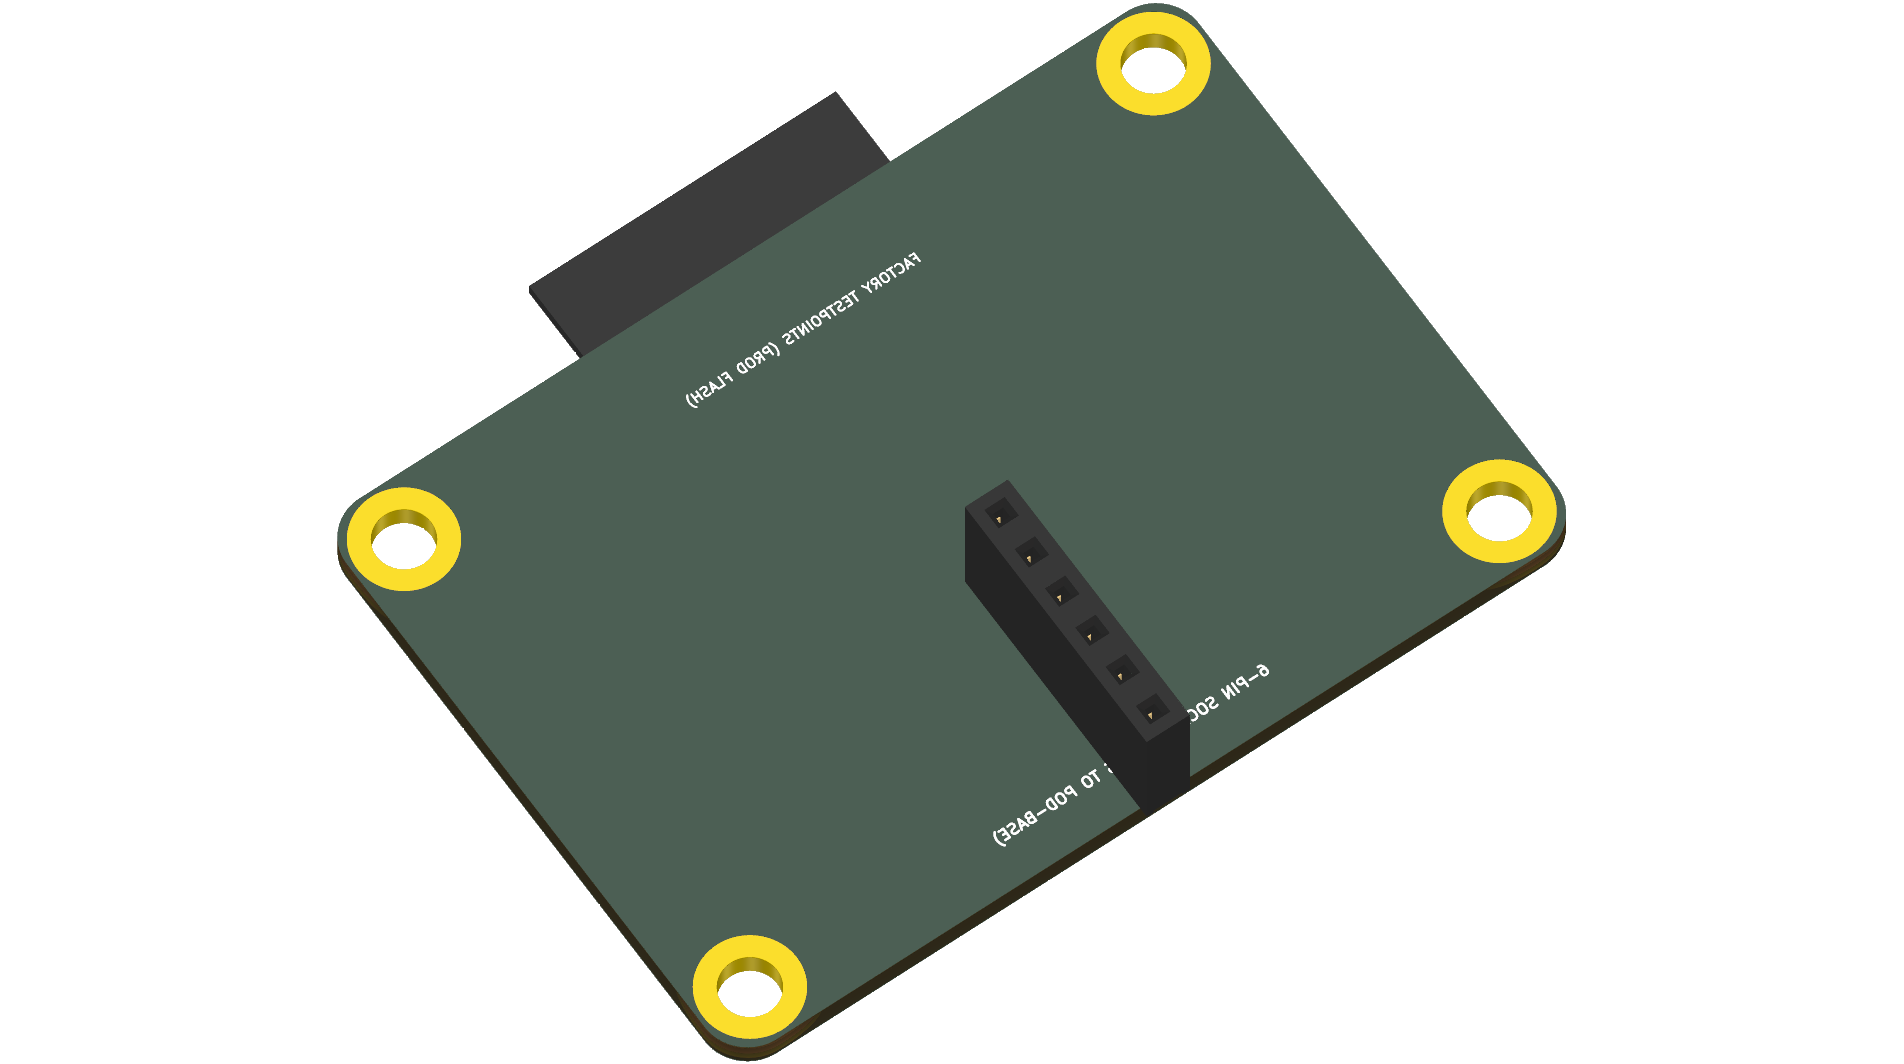
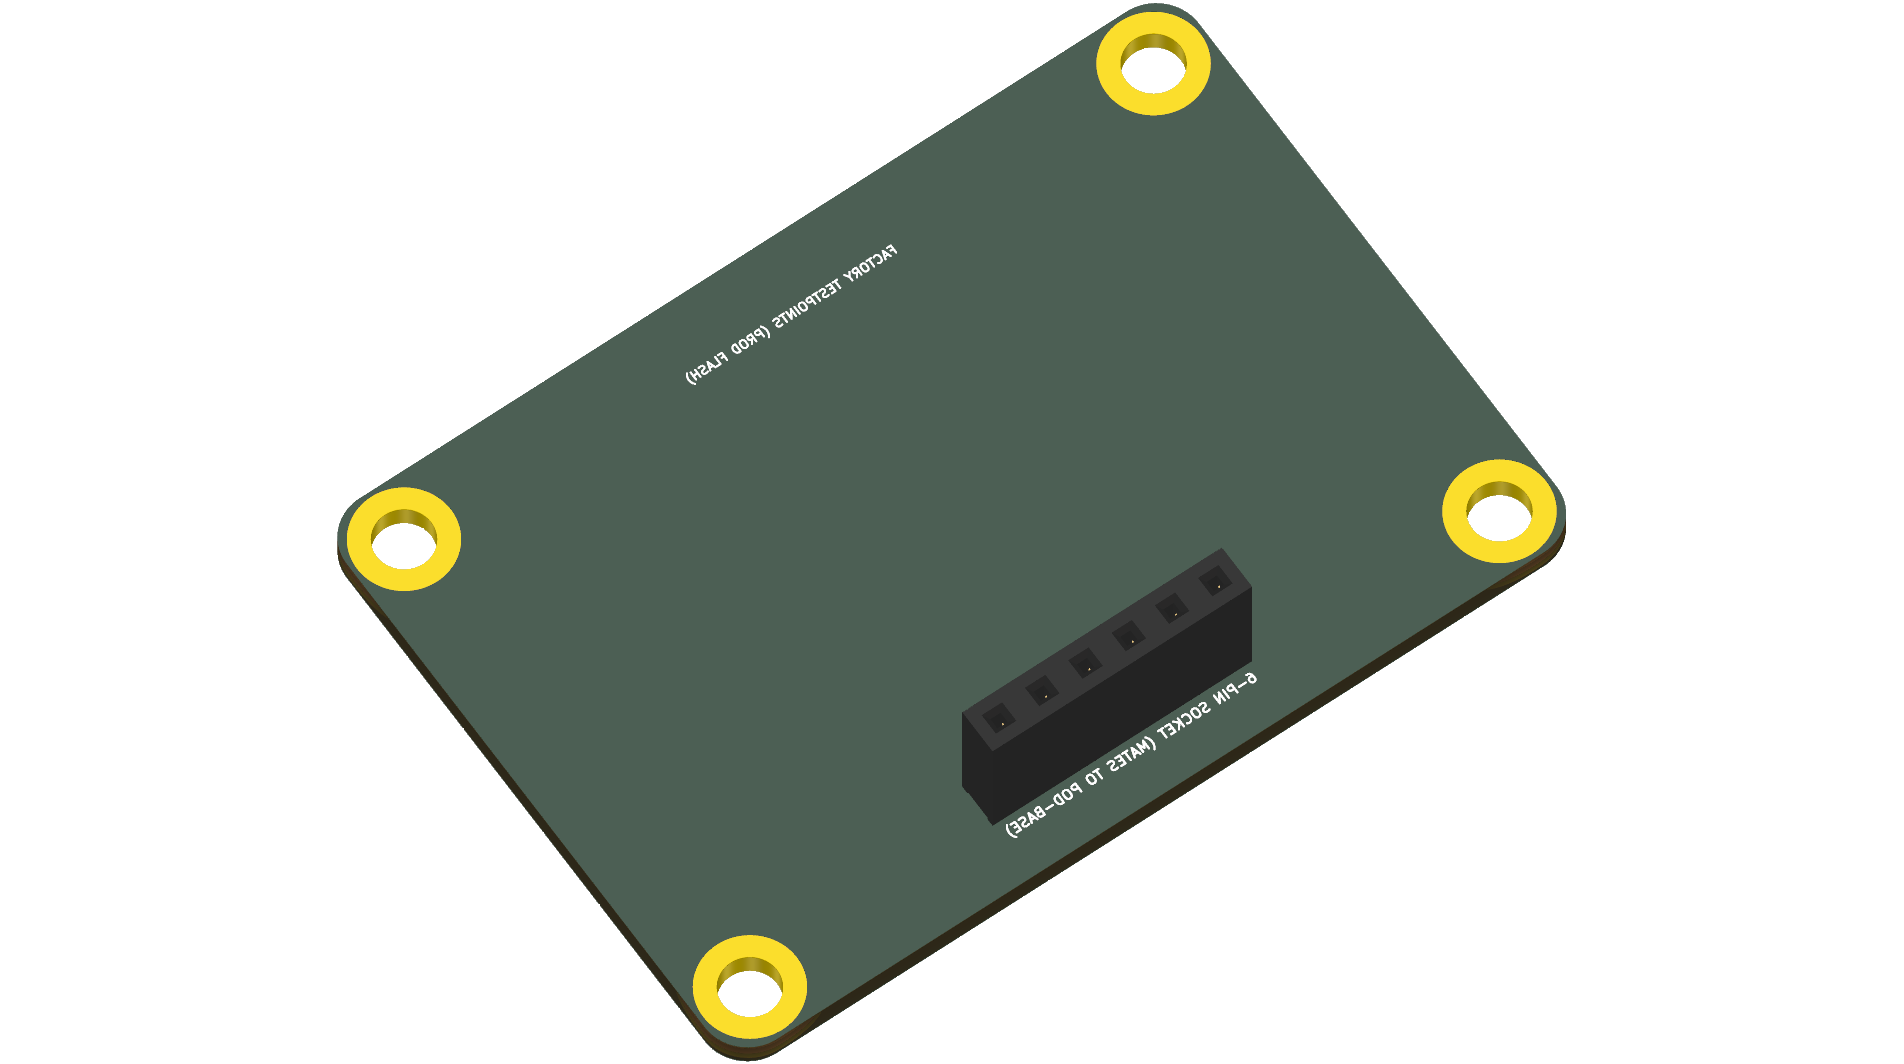
fix(hardware): eliminate ESP32 antenna overhang and route all passives to wings on Rear Pod 3 OMM PCB

Changed region(s): [[0.4958, 0.4652, 0.6817, 0.8064], [0.2789, 0.093, 0.4648, 0.3412], [0.3409, 0.2481, 0.4648, 0.3722]]

diff --git a/hardware/scripts/autoplace_rear_pod3.py b/hardware/scripts/autoplace_rear_pod3.py
@@ -56,32 +56,32 @@ def auto_place_rear_pod(pcb_path):
         'H3': (X0 + 3.5, Y_max - 3.5, 0.0, pcbnew.F_Cu), # (103.5, 101.5) Bottom-Left
         'H4': (X_max - 3.5, Y_max - 3.5, 0.0, pcbnew.F_Cu),# (146.5, 101.5) Bottom-Right
 
-        # Primary Active Components (Top Layer - Generous Wide-Clearance Topology)
-        'U1': (125.0, 78.0, 0.0, pcbnew.F_Cu),           # ESP32-C3-WROOM-02 (Antenna at top edge, Y: 72..86mm)
-        'U2': (109.0, 88.0, 0.0, pcbnew.F_Cu),           # u-blox MAX-M10S GNSS (Left Wing)
-        'U3': (141.0, 88.0, 0.0, pcbnew.F_Cu),           # Semtech SX1262 LoRa (Right Wing)
-        'U4': (116.0, 98.0, 0.0, pcbnew.F_Cu),           # DS2401 Silicon ROM ID (Bottom Left)
+        # Primary Active Components (ESP32 fully inside board boundary: Y 70.0 .. 105.0mm)
+        'U1': (125.0, 86.0, 0.0, pcbnew.F_Cu),           # ESP32-C3 (Antenna moved safely down inside PCB outline)
+        'U2': (109.0, 86.0, 0.0, pcbnew.F_Cu),           # u-blox MAX-M10S GNSS (Left Wing)
+        'U3': (141.0, 86.0, 0.0, pcbnew.F_Cu),           # Semtech SX1262 LoRa (Right Wing)
+        'U4': (110.0, 98.0, 0.0, pcbnew.F_Cu),           # DS2401 Silicon ROM ID (Bottom Left)
 
         # RF Antennas / U.FL Ports (Symmetrical Left & Right)
-        'ANT2': (108.0, 78.0, 0.0, pcbnew.F_Cu),         # GNSS 1.575 GHz RF Port (Direct short trace to U2)
-        'ANT1': (142.0, 78.0, 0.0, pcbnew.F_Cu),         # 868 MHz LoRa RF Port (Direct short trace to U3)
+        'ANT2': (108.0, 76.0, 0.0, pcbnew.F_Cu),         # GNSS 1.575 GHz RF Port (Direct short trace to U2)
+        'ANT1': (142.0, 76.0, 0.0, pcbnew.F_Cu),         # 868 MHz LoRa RF Port (Direct short trace to U3)
 
-        # J1: 6-Pin Socket on UNTERSEITE (B.Cu) - Female socket pointing down, mates with Pod-Base!
-        'J1': (125.0, 98.0, 0.0, pcbnew.B_Cu),           # 6-Pin Interface (Bottom layer B.Cu)
+        # J1: 6-Pin Socket on UNTERSEITE (B.Cu) - Horizontal, centered below ESP32 with generous clearance!
+        'J1': (125.0, 100.5, 90.0, pcbnew.B_Cu),         # 6-Pin Interface (Bottom layer B.Cu, Horizontal)
 
-        # Passives & Status LEDs
-        'L1': (141.0, 93.5, 0.0, pcbnew.F_Cu),           # 47nH RF Choke for SX1262
-        'D1': (134.0, 98.0, 0.0, pcbnew.F_Cu),           # Green Status / Mesh Activity LED
-        'C1': (121.0, 89.0, 0.0, pcbnew.F_Cu),           # 10uF 3V3 Decoupling
-        'C2': (129.0, 89.0, 0.0, pcbnew.F_Cu),           # 100nF ESP32
-        'C3': (109.0, 94.0, 0.0, pcbnew.F_Cu),           # 100nF GNSS Decoupling
-        'C4': (141.0, 96.5, 0.0, pcbnew.F_Cu),           # 100nF LoRa Decoupling
+        # Passives & Status LEDs placed on flanks (leaving center channel completely free)
+        'C1': (113.5, 92.5, 0.0, pcbnew.F_Cu),           # 10uF 3V3 Decoupling (Left flank)
+        'C2': (136.5, 92.5, 0.0, pcbnew.F_Cu),           # 100nF ESP32 Decoupling (Right flank)
+        'L1': (141.0, 91.5, 0.0, pcbnew.F_Cu),           # 47nH RF Choke for SX1262
+        'D1': (140.0, 98.0, 0.0, pcbnew.F_Cu),           # Green Status / Mesh Activity LED (Bottom Right)
+        'C3': (109.0, 91.5, 0.0, pcbnew.F_Cu),           # 100nF GNSS Decoupling
+        'C4': (145.5, 91.5, 0.0, pcbnew.F_Cu),           # 100nF LoRa Decoupling
 
         # Factory Testpoints (Placed cleanly on Bottom Layer B_Cu)
-        'TP1': (115.0, 80.0, 0.0, pcbnew.B_Cu),          # TP_BOOT (GPIO9)
-        'TP2': (118.0, 80.0, 0.0, pcbnew.B_Cu),          # TP_RST (CHIP_PU)
-        'TP3': (132.0, 80.0, 0.0, pcbnew.B_Cu),          # TP_TX (GPIO21)
-        'TP4': (135.0, 80.0, 0.0, pcbnew.B_Cu),          # TP_RX (GPIO20)
+        'TP1': (115.0, 78.0, 0.0, pcbnew.B_Cu),          # TP_BOOT (GPIO9)
+        'TP2': (118.0, 78.0, 0.0, pcbnew.B_Cu),          # TP_RST (CHIP_PU)
+        'TP3': (132.0, 78.0, 0.0, pcbnew.B_Cu),          # TP_TX (GPIO21)
+        'TP4': (135.0, 78.0, 0.0, pcbnew.B_Cu),          # TP_RX (GPIO20)
     }
 
     existing_refs = {fp.GetReference(): fp for fp in board.Footprints()}
@@ -123,14 +123,14 @@ def auto_place_rear_pod(pcb_path):
         board.Remove(d)
 
     top_labels = [
-        ("OPENMOTORBRIDGE", 110.0, 72.5, 0.55, 0.55, 0.12),
-        ("OMM TRANSCEIVER", 140.0, 72.5, 0.55, 0.55, 0.12),
-        ("GNSS 1.575G", 110.0, 75.5, 0.45, 0.45, 0.10),
-        ("868M LoRa", 140.0, 75.5, 0.45, 0.45, 0.10),
-        ("MAX-M10S", 109.0, 83.0, 0.50, 0.50, 0.10),
-        ("SX1262", 141.0, 83.0, 0.50, 0.50, 0.10),
-        ("DS2401 ID", 116.0, 94.0, 0.45, 0.45, 0.10),
-        ("STATUS LED", 134.0, 94.0, 0.45, 0.45, 0.10),
+        ("OPENMOTORBRIDGE", 110.0, 71.8, 0.50, 0.50, 0.11),
+        ("OMM TRANSCEIVER", 140.0, 71.8, 0.50, 0.50, 0.11),
+        ("GNSS 1.575G", 110.0, 74.5, 0.40, 0.40, 0.09),
+        ("868M LoRa", 140.0, 74.5, 0.40, 0.40, 0.09),
+        ("MAX-M10S", 109.0, 81.0, 0.45, 0.45, 0.10),
+        ("SX1262", 141.0, 81.0, 0.45, 0.45, 0.10),
+        ("DS2401 ID", 110.0, 94.8, 0.40, 0.40, 0.09),
+        ("STATUS LED", 140.0, 94.8, 0.40, 0.40, 0.09),
     ]
 
     for text_str, x_mm, y_mm, sx, sy, th in top_labels:
@@ -144,8 +144,8 @@ def auto_place_rear_pod(pcb_path):
         board.Add(txt)
 
     bottom_labels = [
-        ("6-PIN SOCKET (MATES TO POD-BASE)", 125.0, 102.5, 0.55, 0.55, 0.12),
-        ("FACTORY TESTPOINTS (PROD FLASH)", 125.0, 75.0, 0.50, 0.50, 0.10),
+        ("6-PIN SOCKET (MATES TO POD-BASE)", 125.0, 102.5, 0.50, 0.50, 0.11),
+        ("FACTORY TESTPOINTS (PROD FLASH)", 125.0, 74.0, 0.45, 0.45, 0.10),
     ]
 
     for text_str, x_mm, y_mm, sx, sy, th in bottom_labels:
